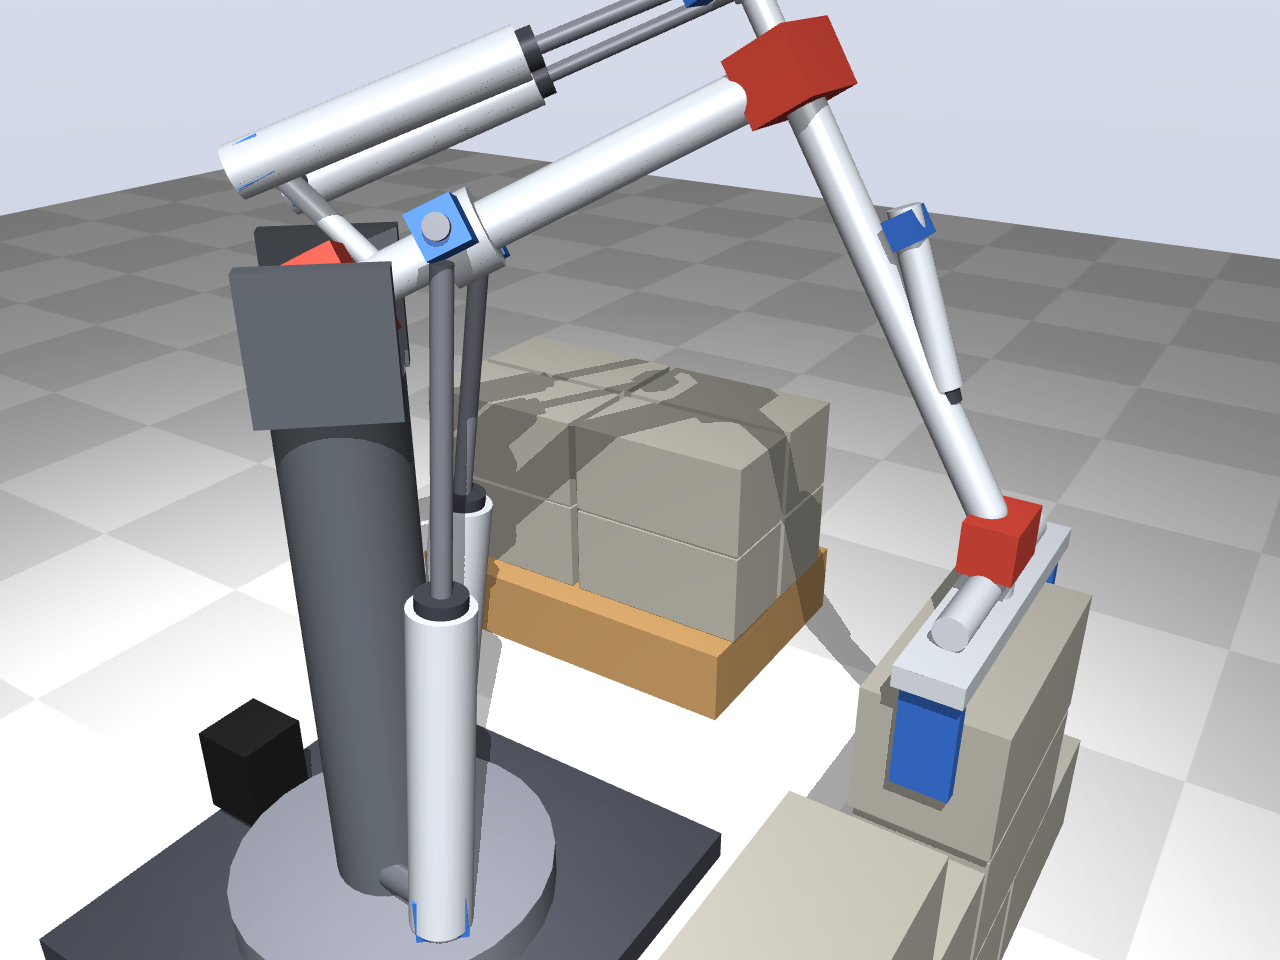
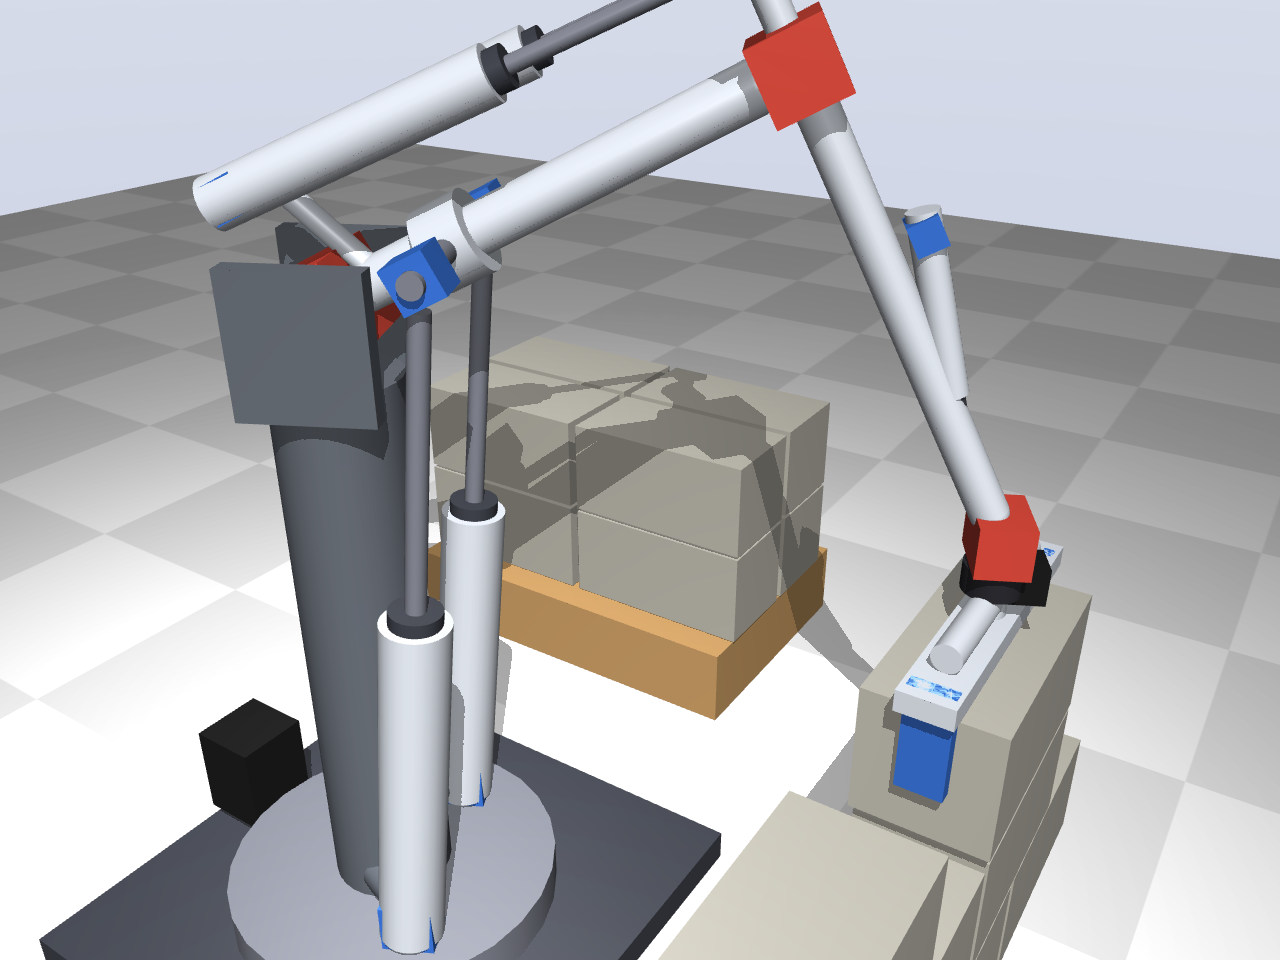
full-arm: concept renders of the arm holding a glass over a table; renders use the gripper yaw motor with the rolls at 0

Changed region(s): [[0.125, 0.0, 0.8438, 1.0]]

diff --git a/full-arm/concept.py b/full-arm/concept.py
@@ -1,7 +1,8 @@
 """Concept render of the full arm: placing a 15 kg block on a low wall.
 
-    python full-arm/concept.py            # out/render_concept_<camera>.png (biceps elbow)
+    python full-arm/concept.py            # out/render_concept_<camera>.png (biceps elbow, low wall)
     python full-arm/concept.py triceps    # out/render_triceps_<camera>.png
+    python full-arm/concept.py glass      # out/render_glass_<camera>.png (holding a glass over a table)
 
 Simple shapes only (MuJoCo primitives), to show the layout and proportions; dimensions
 follow docs/full-arm-sizing.md and the pose comes from full-arm/elbow.py (6 DOF). Not a
@@ -13,7 +14,8 @@ Layout:
 - elbow: the same joint (pitch + forearm roll); the forearm roll turns the gripper, like a
   human forearm. Two cylinders lie on top of the upper arm, like a biceps
 - wrist pitch: one small cylinder along the forearm
-- gripper: two jaws closed by a pneumatic cylinder
+- gripper: two jaws closed by a pneumatic cylinder, turned about the vertical by a small
+  motor; the rolls stay at 0 here (they are for dexterity, not for lining up blocks)
 """
 import math
 import os
@@ -27,6 +29,7 @@ from PIL import Image  # noqa: E402
 HERE = os.path.dirname(os.path.abspath(__file__))
 sys.path.insert(0, HERE)
 import elbow as K  # noqa: E402
+from scipy.optimize import least_squares  # noqa: E402
 
 OUT = os.path.join(HERE, "out")
 BLOCK = np.array([0.15, 0.30, 0.15])           # x (wall thickness), y (along the wall), z; ≈ 15 kg concrete
@@ -34,6 +37,11 @@ SHOULDER_HUB, SHOULDER_BAR = 0.15, 0.12        # hub along the upper arm, cross 
 SHOULDER_LOW_Z, SHOULDER_LOW_X = 0.12, 0.06    # lower pivots on the turntable side of the column
 GRIP_H = K.TOOL - BLOCK[2] / 2                  # wrist → top of the block
 POSE_BLOCK = (0.3, 2)                           # the block being placed: y on the wall, course
+GRIP_BAR = 0.10                                 # wrist → gripper bar (yaw motor and post in between)
+GLASS = dict(r=0.036, h=0.12, at=np.array([0.66, 0.10, 0.85]))   # held glass: radius, height, centre
+TABLE = dict(x=0.66, y=0.05, top=0.72, half=(0.28, 0.45))
+GLASS_C = (0.85, 0.92, 1.0, 0.28)
+WATER = (0.35, 0.6, 0.95, 0.5)
 
 ALU = (0.78, 0.80, 0.83, 1)
 STEEL = (0.45, 0.46, 0.50, 1)
@@ -68,11 +76,37 @@ def cylinder(low, high, r_body, body_len, r_rod, rgba=ALU):
     rod(end - d * 0.01, end + d * 0.015, r_body * 0.75, DARK, "cylinder")
 
 
-def build():
-    y, course = POSE_BLOCK
-    block_c = np.array([K.WALL_X, y, course * BLOCK[2] + BLOCK[2] / 2 + 0.012])
-    q = K.solve(block_c)
-    Ru, Rf, Rt, E, W = K.chain(q)
+def solve_flat(centre, tool, align_wall):
+    """Pose with both rolls at 0: base yaw, shoulder pitch, elbow pitch, wrist pitch keep the
+    held object at `centre`, level; the gripper's own yaw motor lines it up with the wall
+    (align_wall) or leaves the jaws square to the arm."""
+    def pose(x):
+        yaw, p1, p2, p3, psi = x
+        q = [yaw, p1, 0.0, p2, 0.0, p3]
+        Ru, Rf, Rw, E, W = K.chain(q)
+        return q, Ru, Rf, Rw, Rw @ K.Rz(psi), E, W
+
+    def res(x):
+        _, _, _, _, Rt, _, W = pose(x)
+        c = W - tool * Rt[:, 2]
+        return np.concatenate([c - centre, Rt[:2, 2], [Rt[0, 1] if align_wall else x[4]]])
+    yaw = math.atan2(centre[1], centre[0])
+    for p2 in (-1.2, -0.8, -1.6):
+        sol = least_squares(res, [yaw, 0.3, p2, -(0.3 + p2), -yaw], bounds=([-3, -1.05, -2.6, -2.6, -3.2], [3, 1.31, 0, 2.6, 3.2]))
+        if sol.cost < 1e-10:
+            return pose(sol.x)
+    raise ValueError("no pose")
+
+
+def build(scene="wall"):
+    if scene == "wall":
+        y, course = POSE_BLOCK
+        held_c = np.array([K.WALL_X, y, course * BLOCK[2] + BLOCK[2] / 2 + 0.012])
+        tool = GRIP_BAR + 0.012 + BLOCK[2] / 2 + 0.01
+    else:
+        held_c = GLASS["at"]
+        tool = GRIP_BAR + 0.012 + 0.008 + GLASS["h"] / 2
+    q, Ru, Rf, Rw, Rt, E, W = solve_flat(held_c, tool, scene == "wall")
     S = K.S
     Rb = K.Rz(q[0])
     xu, yu, zu = Ru[:, 0], Ru[:, 1], Ru[:, 2]
@@ -119,24 +153,34 @@ def build():
         box(lo, (0.018, 0.018, 0.018), BLUE, Ru)
         cylinder(lo, h - 0.022 * (h - lo) / np.linalg.norm(h - lo), 0.025, 0.30 if K.HUB_ALONG > 0 else 0.26, 0.008)
 
-    # wrist: joint, small cylinder along the forearm, gripper
-    box(W, (0.028, 0.04, 0.028), RED, Rt)
+    # wrist: joint, small cylinder along the forearm, yaw motor, gripper
+    box(W, (0.028, 0.04, 0.028), RED, Rw)
     zt, yt = Rt[:, 2], Rt[:, 1]
-    k = W + 0.06 * zt - 0.04 * Rt[:, 0]
+    k = W + 0.06 * Rw[:, 2] - 0.04 * Rw[:, 0]
     qp = E + 0.18 * xf + 0.045 * Rf[:, 2]
     box(qp, (0.015, 0.02, 0.015), BLUE, Rf)
     cylinder(qp, k, 0.016, 0.16, 0.006)
     rod(W, k, 0.01, ALU, "capsule")
-    top = W - 0.06 * zt
-    rod(W, top, 0.022, ALU, "cylinder")
-    bar_c = top - 0.012 * zt
-    box(bar_c, (0.035, BLOCK[1] / 2 + 0.03, 0.012), ALU, Rt)
-    rod(bar_c + 0.03 * zt - 0.13 * yt, bar_c + 0.03 * zt + 0.13 * yt, 0.018, ALU, "cylinder")
-    held = W - K.TOOL * zt
+    box(W - 0.045 * zt + 0.03 * Rw[:, 0], (0.021, 0.021, 0.021), (0.1, 0.1, 0.1, 1), Rw)      # yaw motor (NEMA17)
+    rod(W - 0.03 * zt, W - 0.06 * zt, 0.032, (0.15, 0.15, 0.17, 1), "cylinder")                # yaw bearing
+    rod(W - 0.06 * zt, W - (GRIP_BAR - 0.012) * zt, 0.018, ALU, "cylinder")
+    bar_c = W - GRIP_BAR * zt
+    box(bar_c, (0.03, BLOCK[1] / 2 + 0.03, 0.012), ALU, Rt)
+    rod(bar_c + 0.028 * zt - 0.13 * yt, bar_c + 0.028 * zt + 0.13 * yt, 0.016, ALU, "cylinder")   # jaw cylinder
+    held = W - tool * zt
+    half_w = BLOCK[1] / 2 if scene == "wall" else GLASS["r"]
+    depth = (bar_c - held) @ zt
     for s in (1, -1):
-        jaw = held + s * (BLOCK[1] / 2 + 0.008) * yt + ((bar_c - held) @ zt) / 2 * zt
-        box(jaw, (0.03, 0.008, ((bar_c - held) @ zt) / 2 + 0.01), BLUE, Rt)
-    box(held, BLOCK / 2, CONCRETE, Rt)
+        jaw = held + s * (half_w + 0.008) * yt + depth / 2 * zt
+        box(jaw, (0.025, 0.008, depth / 2 + 0.012), BLUE, Rt)
+    if scene == "wall":
+        box(held, BLOCK / 2, CONCRETE, Rt)
+    else:
+        glass(held)
+
+    if scene == "glass":
+        table()
+        return np.degrees([q[0], q[1], q[2], q[3], q[4], q[5]])
 
     # low wall (courses below the one being placed, and the start of that course), pallet
     pitch = BLOCK[1] + 0.01
@@ -155,6 +199,31 @@ def build():
     return np.degrees(q)
 
 
+def glass(c, fill=0.6):
+    """Drinking glass standing upright with its centre at c: wall, bottom, water."""
+    h, r = GLASS["h"], GLASS["r"]
+    base = np.asarray(c) - np.array([0, 0, h / 2])
+    rod(base, base + np.array([0, 0, 0.008]), r, GLASS_C, "cylinder")
+    rod(base + np.array([0, 0, 0.008]), base + np.array([0, 0, h]), r, GLASS_C, "cylinder")
+    rod(base + np.array([0, 0, 0.009]), base + np.array([0, 0, 0.008 + fill * h]), r - 0.003, WATER, "cylinder")
+
+
+def table():
+    t = TABLE
+    hx, hy = t["half"]
+    box((t["x"], t["y"], t["top"] - 0.015), (hx, hy, 0.015), WOOD)
+    for sx in (1, -1):
+        for sy in (1, -1):
+            box((t["x"] + sx * (hx - 0.03), t["y"] + sy * (hy - 0.03), (t["top"] - 0.03) / 2), (0.02, 0.02, (t["top"] - 0.03) / 2), WOOD)
+    top = t["top"]
+    g = GLASS["at"]
+    glass((t["x"] + 0.12, t["y"] + 0.28, top + GLASS["h"] / 2))                           # a second glass
+    bottle = (t["x"] + 0.2, t["y"] + 0.12)
+    rod((*bottle, top), (*bottle, top + 0.22), 0.04, (0.2, 0.45, 0.3, 0.55), "cylinder")
+    rod((*bottle, top + 0.22), (*bottle, top + 0.3), 0.014, (0.2, 0.45, 0.3, 0.55), "cylinder")
+    rod((g[0], g[1], top), (g[0], g[1], top + 0.004), 0.05, (0.75, 0.3, 0.25, 1), "cylinder")   # coaster under the held glass
+
+
 def camera(name, pos, target):
     pos, target = np.array(pos, float), np.array(target, float)
     fwd = (target - pos) / np.linalg.norm(target - pos)
@@ -164,18 +233,28 @@ def camera(name, pos, target):
     return f'<camera name="{name}" pos="{fmt(pos)}" xyaxes="{fmt(x)} {fmt(y)}"/>'
 
 
-CAMERAS = {
-    "oblique": camera("oblique", (1.75, -1.75, 1.35), (0.3, 0.05, 0.45)),
-    "front": camera("front", (2.2, 0.35, 0.85), (0.3, 0.05, 0.45)),
-    "elbow": camera("elbow", (0.85, -0.75, 1.15), (0.3, 0.1, 0.65)),
+SCENE_CAMERAS = {
+    "wall": {
+        "oblique": camera("oblique", (1.75, -1.75, 1.35), (0.3, 0.05, 0.45)),
+        "front": camera("front", (2.2, 0.35, 0.85), (0.3, 0.05, 0.45)),
+        "elbow": camera("elbow", (0.85, -0.75, 1.15), (0.3, 0.1, 0.65)),
+    },
+    "glass": {
+        "oblique": camera("oblique", (1.65, -1.55, 1.45), (0.35, 0.05, 0.8)),
+        "close": camera("close", (0.95, -0.6, 1.12), (0.5, 0.1, 0.92)),
+        "side": camera("side", (0.55, -1.75, 1.05), (0.45, 0.05, 0.82)),
+    },
 }
 
 
 def main():
-    layout = sys.argv[1] if len(sys.argv) > 1 else "biceps"
+    args = sys.argv[1:]
+    scene = "glass" if "glass" in args else "wall"
+    layout = next((a for a in args if a in K.LAYOUTS), "biceps")
     K.set_layout(layout)
-    prefix = "concept" if layout == "biceps" else layout
-    q = build()
+    prefix = ("concept" if layout == "biceps" else layout) if scene == "wall" else f"{scene}"
+    CAMERAS = SCENE_CAMERAS[scene]
+    q = build(scene)
     xml = f"""<mujoco><visual><global offwidth="1280" offheight="960"/><quality shadowsize="8192"/>
 <headlight ambient="0.35 0.35 0.35"/></visual>
 <asset><texture type="skybox" builtin="gradient" rgb1="0.97 0.97 1" rgb2="0.72 0.76 0.84" width="512" height="512"/>

diff --git a/full-arm/README.md b/full-arm/README.md
@@ -2,8 +2,9 @@
 
 A first picture of the complete arm, placing a 15 kg block on a low wall. Simple shapes
 only, to show the layout and proportions; the sizes come from
-[docs/full-arm-sizing.md](../docs/full-arm-sizing.md) and the pose from `elbow.py`. Not a
-worked-out design.
+[docs/full-arm-sizing.md](../docs/full-arm-sizing.md). The renders keep both rolls at 0 and
+line the block up with the gripper's yaw motor (see "Choice for now"). Not a worked-out
+design.
 
 ![Concept](out/render_concept_oblique.png)
 
@@ -122,6 +123,17 @@ at 0.8 m, same low wall.
   gravity torque there), or a base that moves along the wall. The forearm roll then tilts
   the tool, which is useful for wiping.
 
+## Holding a glass
+
+A lighter job for the same arm: holding a glass of water just above a table (rolls at 0,
+the gripper's yaw motor keeps the jaws square to the arm). Shoulder pitch 64°, elbow −90°.
+
+![Glass](out/render_glass_oblique.png)
+
+![Glass, close](out/render_glass_close.png)
+
+![Glass, side](out/render_glass_side.png)
+
 ## Choice for now
 
 - **Elbow above the shoulder, biceps layout (cylinders pushing).** The test 2 shoulder
@@ -145,5 +157,5 @@ at 0.8 m, same low wall.
 - Gripper for blocks versus a tool mount for light tasks.
 - Base: fixed, on a pallet with counterweight, or on wheels.
 
-`python full-arm/concept.py [triceps]` renders the views into `out/` (the first version is in
+`python full-arm/concept.py [triceps] [glass]` renders the views into `out/` (the first version is in
 `out/archive/`).
